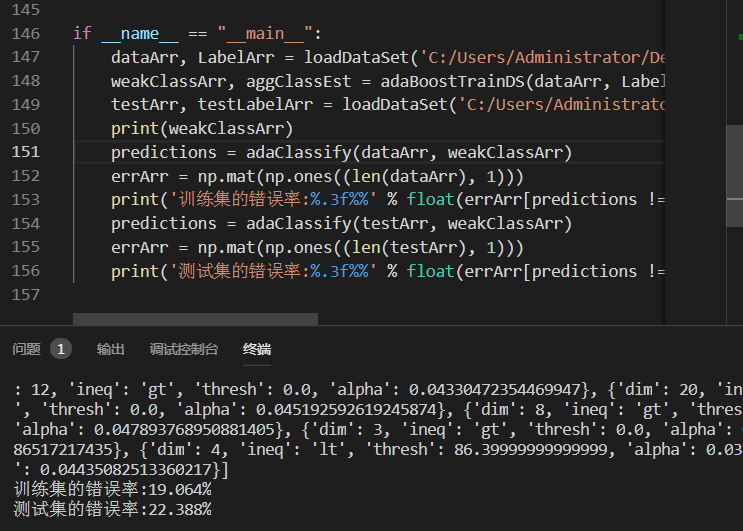
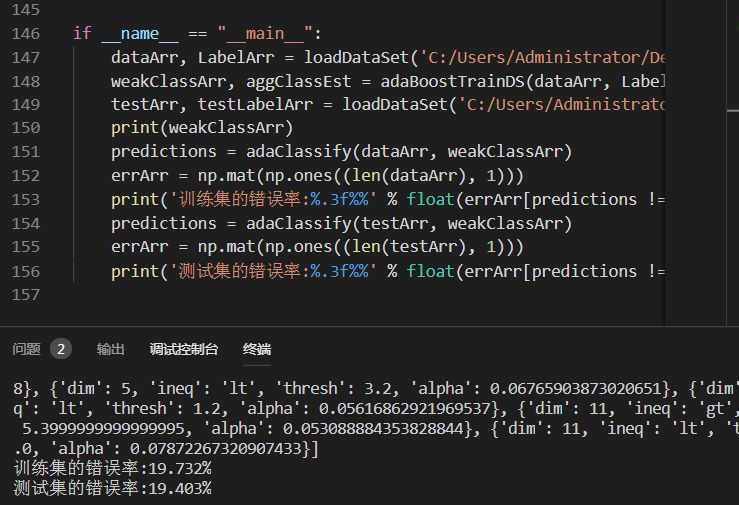
修改Adaboost文章错误

diff --git a/blog/ml/jqxxsz/7.1利用AdaBoost元算法提高分类性能.md b/blog/ml/jqxxsz/7.1利用AdaBoost元算法提高分类性能.md
@@ -424,7 +424,7 @@ if __name__ == "__main__":
 
 这里输出了AdaBoost算法训练好的分类器的组合，我们只迭代了40次，也就是训练了40个弱分类器。最终，训练集的错误率为19.732%，测试集的错误率为19.403%，可以看到相对于Sklearn的罗辑回归方法，错误率降低了很多。这个仅仅是我们训练40个弱分类器的结果，如果训练更多弱分类器，效果会更好。但是当弱分类器数量过多的时候，你会发现训练集错误率降低很多，但是测试集错误率提升了很多，这种现象就是过拟合(overfitting)。分类器对训练集的拟合效果好，但是缺失了普适性，只对训练集的分类效果好，这是我们不希望看到的。
 
-2、使用Sklearn的AdaBoost
+### 2、使用Sklearn的AdaBoost
 
 官方英文文档手册：[地址](https://scikit-learn.org/stable/modules/generated/sklearn.ensemble.AdaBoostClassifier.html)
 
